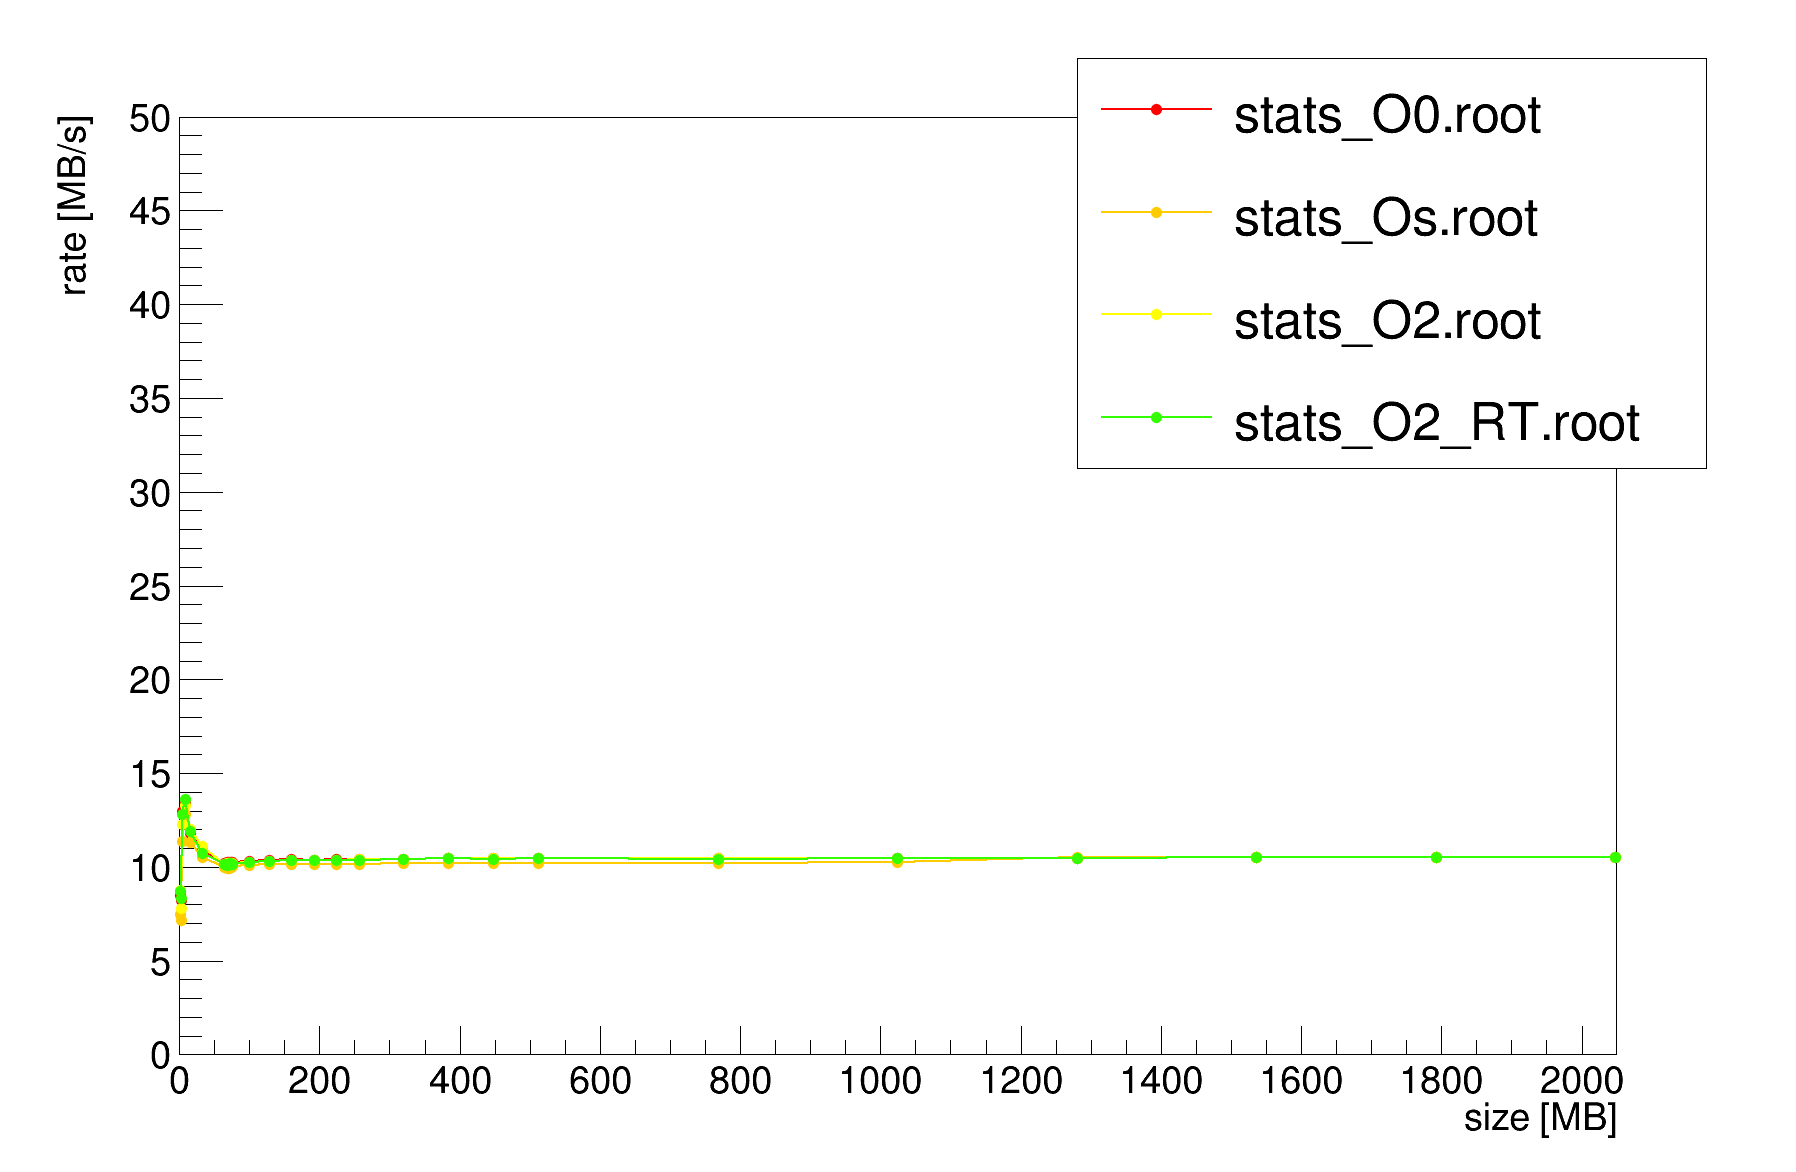
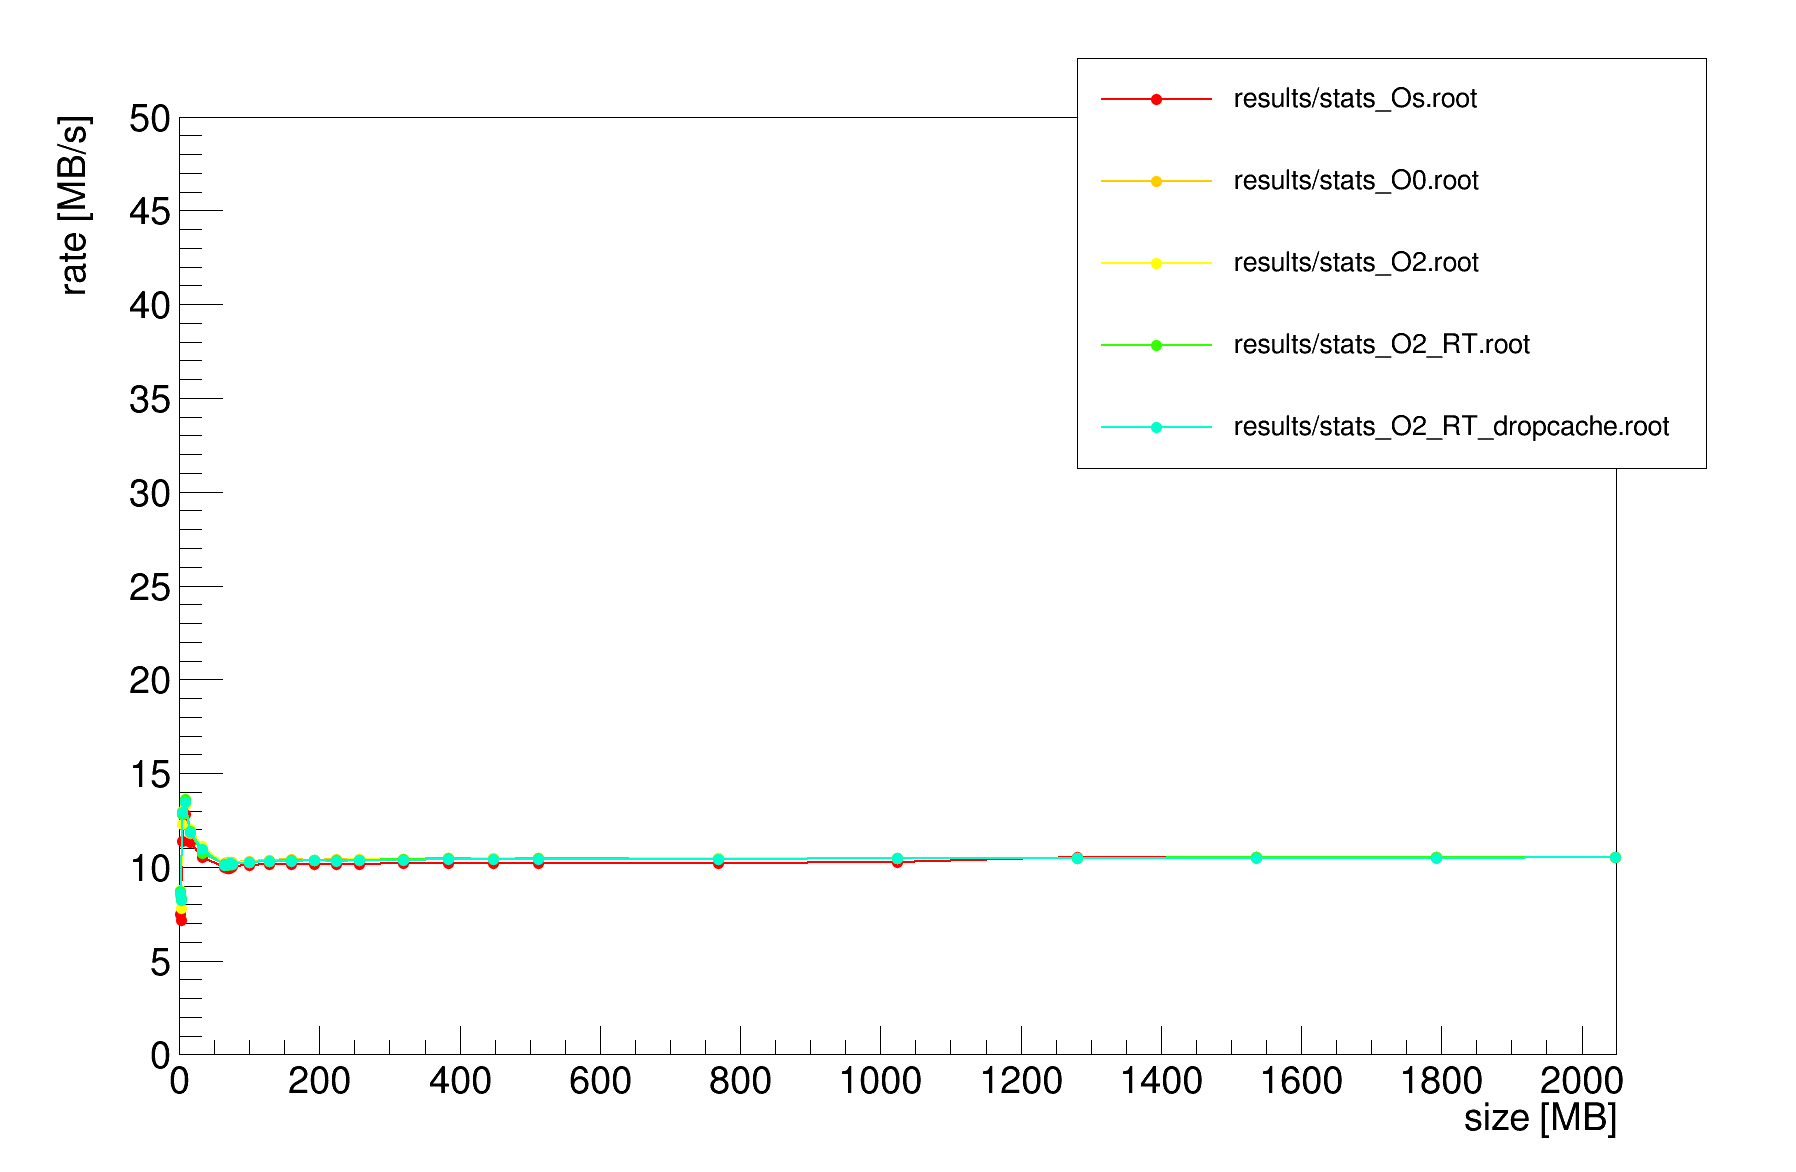
dropcache, cleanup

diff --git a/plot.cc b/plot.cc
@@ -16,10 +16,11 @@ int main() {
 
   std::vector<std::string> fnames;
 
-  fnames.push_back("stats_O0.root");
-  fnames.push_back("stats_Os.root");
-  fnames.push_back("stats_O2.root");
-  fnames.push_back("stats_O2_RT.root");
+  fnames.push_back("results/stats_Os.root");
+  fnames.push_back("results/stats_O0.root");
+  fnames.push_back("results/stats_O2.root");
+  fnames.push_back("results/stats_O2_RT.root");
+  fnames.push_back("results/stats_O2_RT_dropcache.root");
 
 
  std::vector<EColor> colors;
@@ -27,8 +28,8 @@ int main() {
   colors.push_back(kOrange);
   colors.push_back(kYellow);
   colors.push_back(kSpring);
-  // colors.push_back(kGreen);
-  // colors.push_back(kTeal);
+  //  colors.push_back(kGreen);
+  colors.push_back(kTeal);
   // colors.push_back(kCyan);
   // colors.push_back(kAzure);
   // colors.push_back(kBlue);
@@ -93,7 +94,7 @@ int main() {
     leg->AddEntry(fnames[i].c_str(),fnames[i].c_str(),"LP");
   }
   leg->Draw("same");
-  c->Print("memcpy.png");
+  c->Print("results/memcpy.png");
 
 
   TCanvas * cc = new TCanvas("cc","cc",0,0,1800,1200);
@@ -107,7 +108,7 @@ int main() {
     lleg->AddEntry(fnames[i].c_str(),fnames[i].c_str(),"LP");
   }
   lleg->Draw("same");
-  cc->Print("memset.png");
+  cc->Print("results/memset.png");
 
 
   TCanvas * ccc = new TCanvas("ccc","ccc",0,0,1800,1200);
@@ -121,7 +122,7 @@ int main() {
     llleg->AddEntry(fnames[i].c_str(),fnames[i].c_str(),"LP");
   }
   llleg->Draw("same");
-  ccc->Print("fwrite.png");    
+  ccc->Print("results/fwrite.png");    
 
 
 
